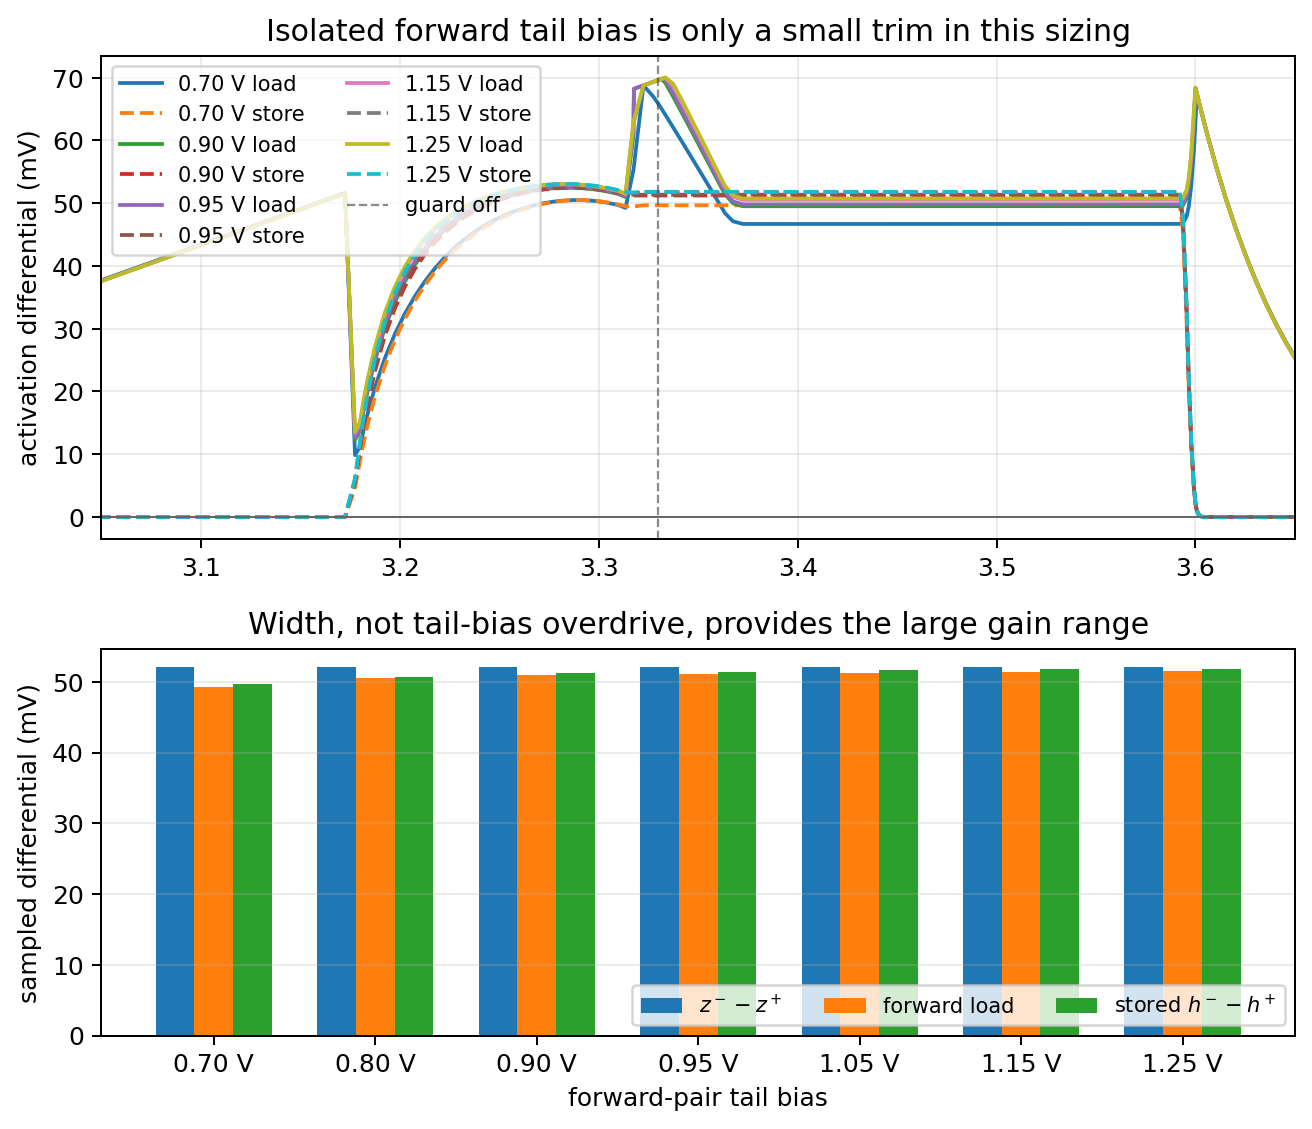
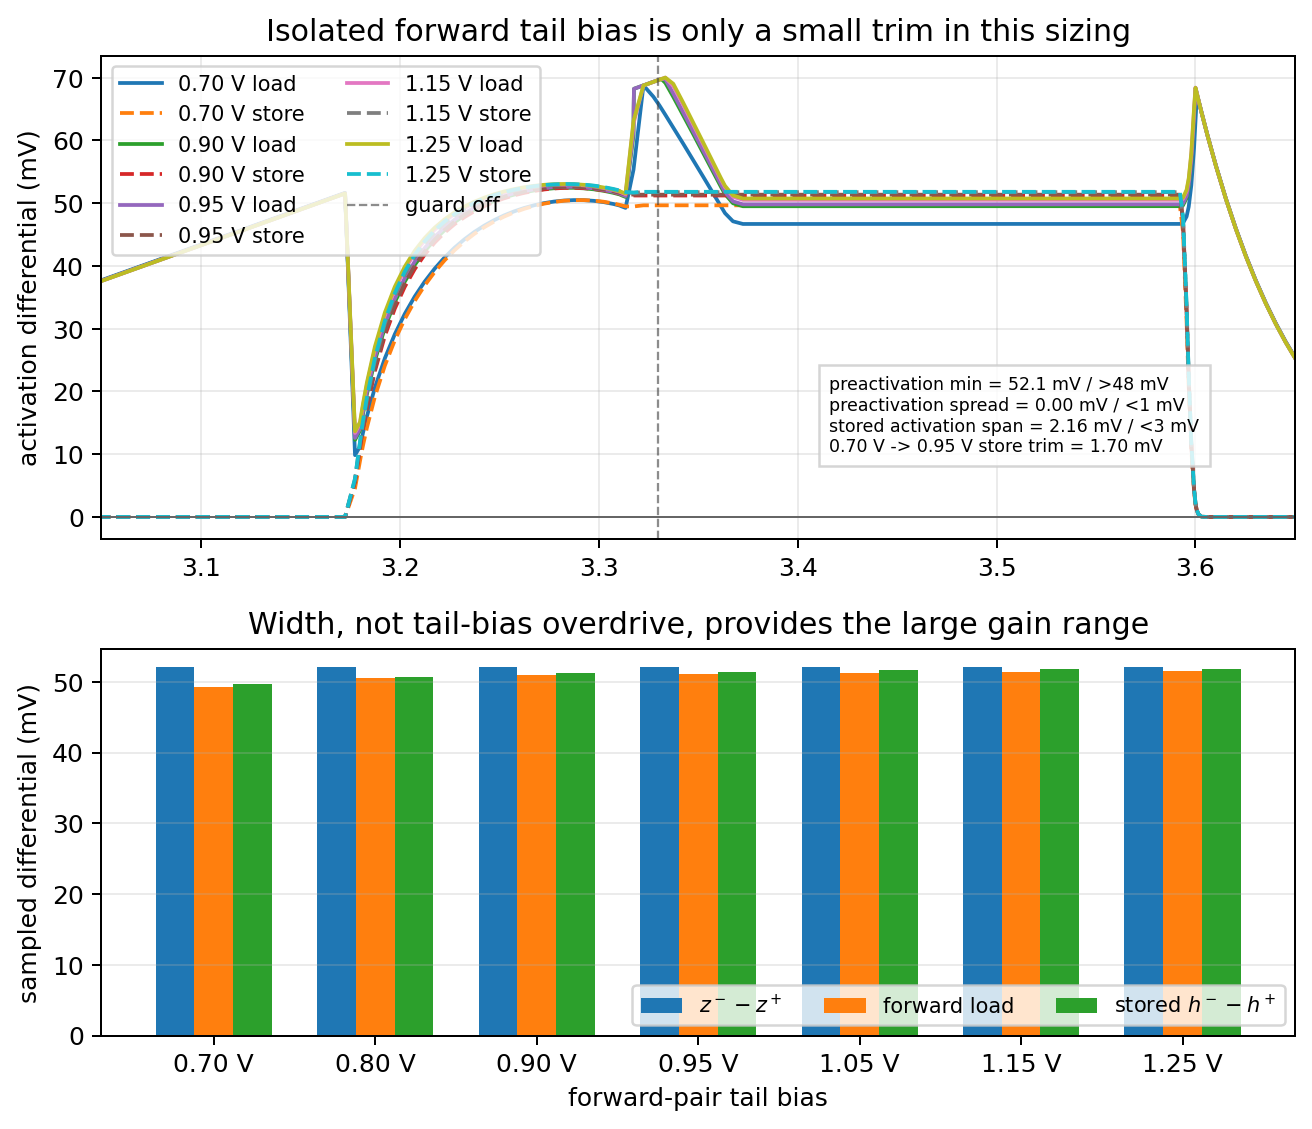
Annotate forward tail bias trim margin

Changed region(s): [[0.625, 0.31, 0.9375, 0.434]]

diff --git a/spice/run_mos_cell_characterization.py b/spice/run_mos_cell_characterization.py
@@ -15530,6 +15530,21 @@ quit
     tail_bias_axes[0].set_ylabel("activation differential (mV)")
     tail_bias_axes[0].set_title("Isolated forward tail bias is only a small trim in this sizing")
     tail_bias_axes[0].grid(True, alpha=0.25)
+    tail_bias_axes[0].text(
+        0.61,
+        0.18,
+        "preactivation min = "
+        f"{1e3 * np.min(tail_bias_preact_samples):.1f} mV / >48 mV\n"
+        "preactivation spread = "
+        f"{1e3 * (np.max(tail_bias_preact_samples) - np.min(tail_bias_preact_samples)):.2f} mV / <1 mV\n"
+        "stored activation span = "
+        f"{1e3 * (tail_bias_store_samples[-1] - tail_bias_store_samples[0]):.2f} mV / <3 mV\n"
+        "0.70 V -> 0.95 V store trim = "
+        f"{1e3 * (tail_bias_store_samples[nominal_tail_bias_idx] - tail_bias_store_samples[0]):.2f} mV",
+        transform=tail_bias_axes[0].transAxes,
+        fontsize="x-small",
+        bbox={"facecolor": "white", "alpha": 0.82, "edgecolor": "0.8"},
+    )
     tail_bias_axes[0].legend(loc="upper left", ncol=2, fontsize="small")
     tail_bias_x = np.arange(len(tail_bias_labels))
     tail_bias_axes[1].bar(tail_bias_x - 0.24, 1e3 * tail_bias_preact_samples, width=0.24, label="$z^- - z^+$")

diff --git a/engineering_log.md b/engineering_log.md
@@ -2,6 +2,16 @@
 
 ## 2026-05-25
 
+- Clarified the isolated forward-tail-bias plot.  The ngspice sweep already
+  asserted that this bias keeps a valid read state, leaves the stored
+  preactivation essentially unchanged, increases stored activation
+  monotonically, and acts only as a fine trim in the present sizing.  The
+  regenerated
+  `mos_hidden_writer_restored_gate_hybrid_update_forward_guard_forward_tail_bias_ngspice`
+  plot now labels those sampled margins directly: minimum preactivation
+  \(52.1\) mV, preactivation spread below the displayed \(0.01\) mV
+  resolution, stored-activation span \(2.16\) mV, and \(0.70\) V to
+  \(0.95\) V stored trim \(1.70\) mV.
 - Family-completed the shifted-gate startup-precharge margin plots.  The
   tuned-common and strength-sweep ngspice decks already asserted their
   pass/fail edges, but the rendered figures forced the reader to infer those
